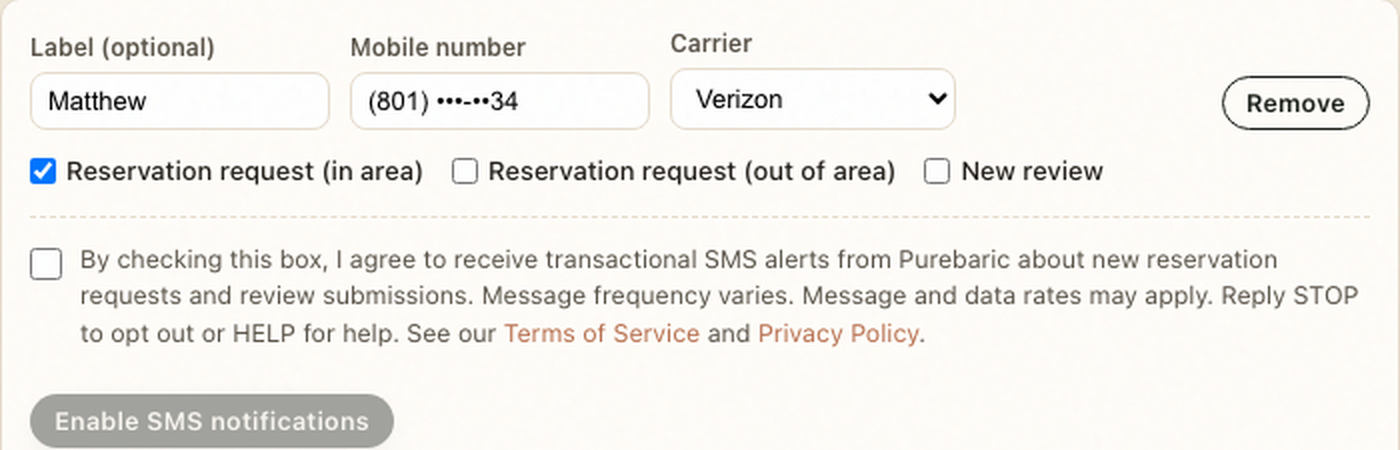
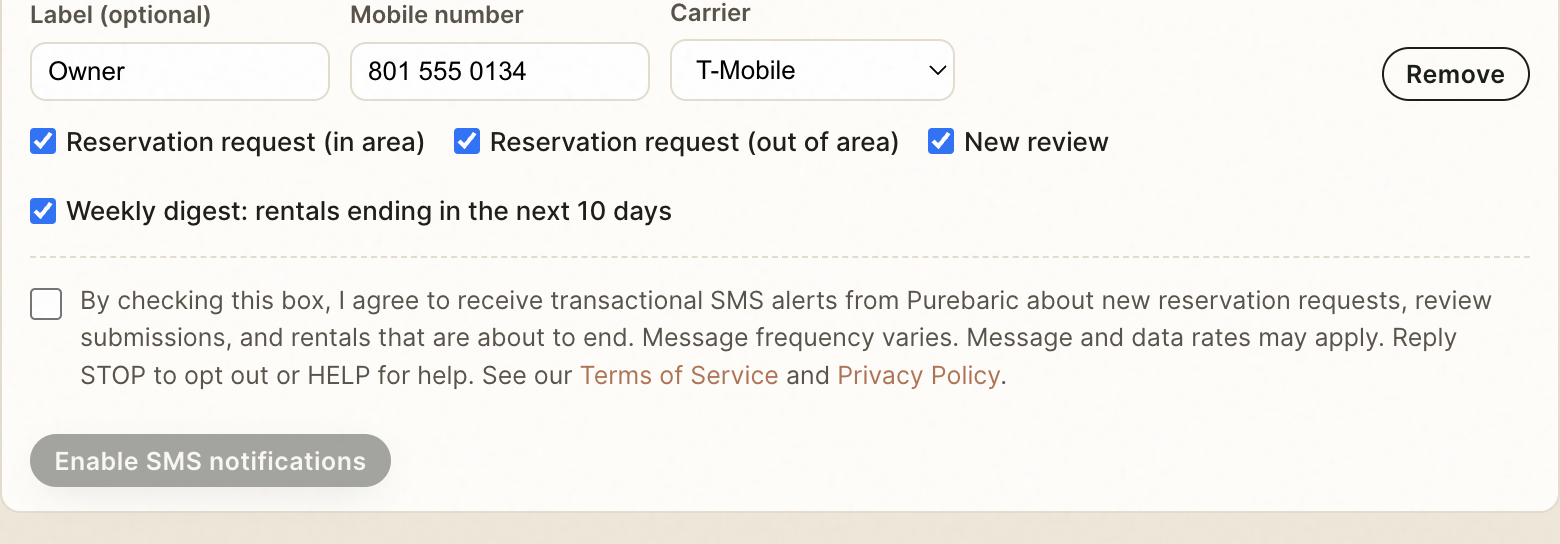
sms-consent: state that opt-in is optional and never pre-selected, fresh screenshots, exact sample messages
Also fix admin Notifications: a re-render (+ Add phone number) dropped the
existing consent record, so a later autosave switched an enrolled number off.

diff --git a/sms-consent.html b/sms-consent.html
@@ -66,7 +66,7 @@
 
 <section class="section" style="border-top:none">
   <div class="wrap legal">
-    <p class="updated">Last updated: September 26, 2026 (consent wording v2)</p>
+    <p class="updated">Last updated: September 29, 2026 (consent wording v2)</p>
 
     <p>Purebaric sends transactional website-notification text messages only to the Purebaric owner or another authorized administrator. These notifications alert an administrator when the Purebaric website receives:</p>
     <ul>
@@ -76,6 +76,15 @@
       <li>A weekly reminder that rentals are ending within the next 10 days (a count and the earliest end date, with a link to the admin portal; it contains no customer details)</li>
     </ul>
     <p><strong>Customers who submit these forms do not receive messages through this SMS program.</strong> Reservation requests and reviews are submitted by the general public; the text alerts described on this page go only to the administrator who enrolls their own number in the admin portal.</p>
+
+    <h2>Consent is optional, never forced, and never pre-selected</h2>
+    <ul>
+      <li>The SMS-consent checkbox is <strong>unchecked by default</strong> for every phone number, new or existing. The portal never pre-checks it.</li>
+      <li>Consenting to SMS is <strong>not a condition</strong> of using the admin portal, of any purchase, or of any Purebaric service. Every portal feature works with SMS turned off, and email notifications are available instead.</li>
+      <li>Enrolling takes <strong>two separate actions</strong>: the administrator checks the box, then selects the "Enable SMS notifications" button, which is disabled until the box is checked.</li>
+      <li>No message is sent to a number until its consent has been recorded. The date and time of consent, and who gave it, are stored with the number and shown in the portal.</li>
+      <li>Consent can be withdrawn at any time by replying STOP or by selecting "Disable SMS notifications" in the portal, which stops delivery immediately.</li>
+    </ul>
 
     <h2>How an administrator opts in</h2>
     <ol>
@@ -92,21 +101,28 @@
 
     <p>SMS enrollment is optional. Administrators can continue using the Purebaric admin portal without enabling text notifications.</p>
 
+    <h2>Sample messages</h2>
+    <p>Every message is a short alert telling the administrator to sign in to the admin portal. When a chamber is available, the reservation alert also carries a follow-up text template with a "[NAME]" placeholder, the rental length, monthly price, and delivery date. Messages never contain a customer's name, phone number, address, email, or other details.</p>
+    <div class="box">"Purebaric: A new reservation request was received. Sign in to the Purebaric admin portal to review it. Reply STOP to opt out or HELP for help."</div>
+    <div class="box">"Purebaric: A new out-of-area reservation request was received. Sign in to the Purebaric admin portal to review it. Reply STOP to opt out or HELP for help."</div>
+    <div class="box">"Purebaric: A new customer review was submitted. Sign in to the Purebaric admin portal to review it. Reply STOP to opt out or HELP for help."</div>
+    <div class="box">"Purebaric: 2 rentals end within the next 10 days (first: Oct 3). Review them or cancel Stripe subscriptions: https://purebaric.com/admin?endingSoon=1 Reply STOP to opt out or HELP for help."</div>
+
     <h2>What the opt-in process looks like</h2>
-    <p>The screenshots below are from the live admin portal. The administrator's mobile number is redacted; no Twilio credentials, tokens, or other secrets are ever shown or stored in this page.</p>
+    <p>The screenshots below are from the live admin portal, taken September 29, 2026. The administrator's real mobile number and email are redacted (the number shown in the first two images is a sample); no Twilio credentials, tokens, or other secrets are ever shown or stored in this page.</p>
 
     <figure class="sms-shot">
-      <img src="/images/sms-consent-optin.png" width="1000" height="780" alt="Admin Notifications page showing the redacted mobile-number field, the three notification categories (reservation request in area, reservation request out of area, new review), the SMS-consent checkbox unchecked with its full disclosure text and Terms of Service / Privacy Policy links, and a greyed-out, disabled Enable SMS notifications button beneath it.">
+      <img src="/images/sms-consent-optin.png?v=2" width="810" height="387" alt="Admin Notifications page showing a phone number card with the mobile-number field, the four notification categories, the SMS-consent checkbox unchecked by default with its full disclosure text and Terms of Service / Privacy Policy links, and a greyed-out, disabled Enable SMS notifications button beneath it.">
       <figcaption>The Notifications page before enrollment: mobile number, notification categories, and the unchecked consent checkbox with its full disclosure. The "Enable SMS notifications" button stays disabled until the box is checked.</figcaption>
     </figure>
 
     <figure class="sms-shot">
-      <img src="/images/sms-consent-detail.png" width="1400" height="450" alt="Close-up of the redacted mobile-number field, notification-category checkboxes, the unchecked SMS-consent checkbox with its complete disclosure text and Terms of Service / Privacy Policy links, and the disabled Enable SMS notifications button.">
+      <img src="/images/sms-consent-detail.png?v=2" width="1560" height="544" alt="Close-up of the mobile-number field, the notification-category checkboxes, the unchecked SMS-consent checkbox with its complete disclosure text and Terms of Service / Privacy Policy links, and the disabled Enable SMS notifications button.">
       <figcaption>A closer look at the consent checkbox and full disclosure language, unchecked by default, with the disabled enable button directly below it.</figcaption>
     </figure>
 
     <figure class="sms-shot">
-      <img src="/images/sms-consent-enabled.png" width="1000" height="850" alt="Admin Notifications page after checking the consent box and selecting Enable SMS notifications, showing a green “SMS notifications enabled” confirmation with the consent timestamp and a redacted administrator identity, plus a Disable SMS notifications button.">
+      <img src="/images/sms-consent-enabled.png?v=2" width="1060" height="510" alt="Admin Notifications page after checking the consent box and selecting Enable SMS notifications, showing a green “SMS notifications enabled” confirmation with the consent timestamp and a redacted mobile number, plus a Disable SMS notifications button.">
       <figcaption>After the administrator checks the box and selects "Enable SMS notifications": a confirmation showing the consent timestamp, and a "Disable SMS notifications" button that stops delivery immediately.</figcaption>
     </figure>
 

diff --git a/admin.html b/admin.html
@@ -3278,7 +3278,14 @@
     }));
   }
   // Capture current field state into _notify before a re-render (add/remove).
-  function syncNotifyState() { _notify.emails = readEmailCards(); _notify.sms = readSmsCards(); }
+  // The cards never carry the server's consent record (readSmsCards sends only consentChecked), so keep
+  // each row's existing record across a re-render; otherwise an enrolled number shows as unchecked
+  // after "+ Add phone number" and a later Save would switch its texts off.
+  function syncNotifyState() {
+    const prevSms = _notify.sms;
+    _notify.emails = readEmailCards();
+    _notify.sms = readSmsCards().map((r, i) => Object.assign(r, { consent: (prevSms[i] && prevSms[i].consent) || null }));
+  }
   function addNotifyEmail() { syncNotifyState(); _notify.emails.push({ label:'', email:'', events:['reservation_in'] }); renderNotifications(); }
   function removeNotifyEmail(i) { syncNotifyState(); _notify.emails.splice(i, 1); renderNotifications(); }
   // New SMS rows always start with the consent checkbox unchecked — never

diff --git a/_internal/RUNBOOK.md b/_internal/RUNBOOK.md
@@ -330,6 +330,7 @@ The code is complete and correct; nobody has entered Stripe credentials yet. **V
 - Exists so a Twilio/carrier reviewer (or anyone) can verify the opt-in flow without needing admin credentials. Explains the SMS categories (reservation request / out-of-area reservation request / new review), walks through the 6-step opt-in process in the exact wording Twilio's reviewers expect, and embeds **three real screenshots** of the live admin UI (`images/sms-consent-optin.png`, `-detail.png`, `-enabled.png`) with the phone number and admin email **redacted** — no Twilio credentials, tokens, or real personal data anywhere on this page or in the images' metadata.
 - **If the admin UI changes** (the Notifications tab layout, the disclosure wording, the Enable/Disable buttons), **these screenshots go stale** and should be regenerated. How they were made (no browser extension or paid tool needed): open `/admin` in the Claude Browser preview tool, force the login gate open and mock the `/api/admin/notifications` fetch calls with fake-but-realistic data (see any of this session's git history around 2026-09-26 for the exact snippet), reach the desired state (unchecked / enabled), then in-page bake live DOM `.value`/`.checked` properties into real HTML attributes (`el.setAttribute('value', el.value)` etc. — outerHTML only serializes attributes, not live properties), grab `document.documentElement.outerHTML`, strip the `<script>` tags (so the static snapshot doesn't re-run the auth-gate JS and reset itself), inject a `<base href="http://localhost:5056/">` tag so relative asset URLs resolve, save that as a standalone `.html` file, and screenshot it with headless Chrome (`/Applications/Google Chrome.app/Contents/MacOS/Google Chrome --headless=new --screenshot=out.png --window-size=W,H file://…`). Crop/redact with Python's `PIL`/`Pillow` (available on this machine).
 - Also linked from the footer ("SMS Consent") on **every** public page, and from `/terms#sms-terms` and `/privacy` (both have matching SMS sections — keep the three in sync if the program changes: `terms.html` §13, `privacy.html`'s "SMS privacy" section, and this page).
+- **2026-09-29 rejection (error 30896, "unable to validate that the opt-in is forced or not"):** `/sms-consent` now has an explicit "Consent is optional, never forced, and never pre-selected" section, the exact sample messages from the code, and fresh redacted screenshots (taken in Chrome from the live admin: `images/sms-consent-*.png?v=2`, the sample number 801 555 0134 is fake). Also fixed: `syncNotifyState` in `admin.html` dropped each row's `consent` record on re-render, so pressing "+ Add phone number" and then any autosaving change (an event checkbox) saved the enrolled number with the box unchecked and switched its texts off. Re-enable in the portal if that ever happens again.
 - **Twilio resubmission:** once satisfied this is correct, resubmit/update the *existing* rejected Twilio campaign (do not create a new one) with a Message Flow description pointing to `https://purebaric.com/sms-consent`. The exact Message Flow wording used is in this session's chat history if it needs to be reused verbatim.
 
 **Message content policy (do not regress this):** admin SMS alerts must **never** include the customer's name, phone, address, email, ZIP, or free-text notes — only a generic "a new X was received, sign in to review it" plus the required STOP/HELP footer. This was a deliberate change from earlier, more detailed alert text (which did leak the lead's name/phone/ZIP into the SMS body) — see §7c for the exact current wording. **One deliberate exception (2026-09-26):** the copy-and-paste follow-up template appended to the reservation alert contains the rental length, monthly price and delivery date (none identifying) and a literal `[NAME]` placeholder — never the real name. If the Twilio campaign is (re)submitted, make sure its sample message / message-flow description covers this longer alert, since it is much longer than the generic wording registered originally.
